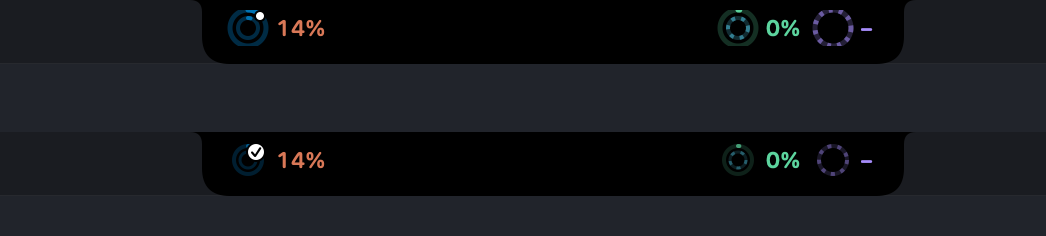
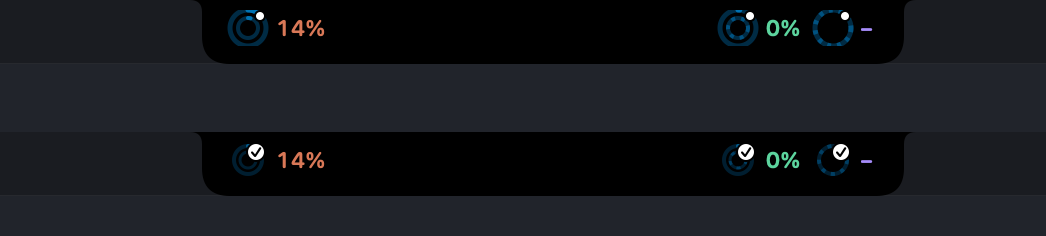
Notchmeter 0.9.14: every ring carries its mark, and the news keeps its name
The picture of the rings' marks drew the dot and the tick on Claude Code's ring
alone; the owner, on the site's copy: "every assistant should have the
checkmark when done". DemoFixtures.everyRing puts Codex and Cursor beside it in
the same state, as their hooks send it (a permission request; a quiet turn
nudged as a possible wait; then each ending a long turn), so the picture shows
a dot, then a tick, on every ring with a hook; the same marks were checked live
on the installed app's strip. permission.png is drawn again with the card's new
header. The other pictures render the same to the pixel and are left alone.

Version 0.9.14 in the plist and the plugin, its notes, the changelog, and the
guides' "Tested on" stamps.

Claude-Session: https://claude.ai/code/session_01BmUk8Pcie3UzytbtYBUh3s

diff --git a/Sources/Notchmeter/DemoFixtures.swift b/Sources/Notchmeter/DemoFixtures.swift
@@ -60,7 +60,8 @@ enum DemoFixtures {
     /// `cowork` adds two Claude Cowork tasks to the afternoon (`coworkTasks`), for `cowork.png` and
     /// `cowork-news.png`; the README's own pictures leave them out, so they stay the pictures they were.
     @MainActor
-    static func store(now: Date = Date(), moment: Moment = .waiting, cowork: Bool = false, suite: String = suiteName) -> (store: UsageStore, prefs: Preferences) {
+    static func store(now: Date = Date(), moment: Moment = .waiting, cowork: Bool = false, everyRing: Bool = false,
+                      suite: String = suiteName) -> (store: UsageStore, prefs: Preferences) {
         // A suite nothing writes to. The registration domain lives in memory only, so the countdown style the
         // pictures rely on is neither read from nor written to the user's own preferences. Peak hours are off: the
         // window is read against the wall clock, so a render during it grew an advice line and a footer word that
@@ -75,6 +76,7 @@ enum DemoFixtures {
                                cache: ReadingCache(defaults: defaults), defaults: defaults, drainLog: nil)
         var tracker = sessions(now: now, moment: moment)
         if cowork { coworkTasks(into: &tracker, now: now) }
+        if everyRing { Self.everyRing(&tracker, now: now, finished: moment == .justFinished) }
         store.seed(readings: readings, cost: cost(now: now), nextUpdate: now.addingTimeInterval(2 * 60 + 40),
                    sessions: tracker, now: now)
         // The afternoon has the Claude Code hook installed, which is what keeps the Sessions card on the panel; the
@@ -83,6 +85,7 @@ enum DemoFixtures {
         store.hookInstalledTools = moment == .firstLaunch ? [] : [.claude]
         // The task list open on the notchmeter row, so the pictures show the checklist and not only its count.
         store.openSessionLists = moment == .firstLaunch ? [] : [SessionsCard.listKey("notchmeter", .todos)]
+        if everyRing { store.hookInstalledTools = [.claude, .codex, .cursor] }
         if moment == .everyAssistant {
             store.hookInstalledTools = Set(ToolID.allCases)
             store.openSessionLists = Set(everyAssistantPlans.map { SessionsCard.listKey(SessionTracker.key(tool: $0.tool, session: $0.session, host: nil), .todos) })
@@ -783,6 +786,28 @@ extension DemoFixtures {
 
     /// Each payload as the assistant's hook sends it, parsed by the hook's own parser; Cursor's plan as its transcript
     /// records it, replayed by the app's own follower (CursorPlans), since Cursor's hooks never report it.
+    /// Codex and Cursor beside Claude Code in the same state, for the picture of the rings' marks (signal-rings.png):
+    /// the owner, on the site's copy of it, where only Claude's ring carried the dot and the tick, "every assistant
+    /// should have the checkmark when done" (2026-10-03). Waiting, Codex has asked for a permission and Cursor, which
+    /// has no wait event, has gone quiet with nothing running and is nudged as a possible wait; finished, both have
+    /// ended a long turn. Fed as their hooks send it, in ascending time, so the marks are states the tracker reaches.
+    static func everyRing(_ tracker: inout SessionTracker, now: Date, finished: Bool) {
+        func feed(_ tool: ToolID, _ ago: TimeInterval, _ json: String) {
+            guard let message = Hook.message(from: Data(json.utf8), tool: tool, environment: [:], branch: { _ in "main" }, requestID: "demo-ring") else { return }
+            tracker.apply(message, now: now.addingTimeInterval(-ago))
+        }
+        feed(.codex, 300, #"{"hook_event_name":"UserPromptSubmit","session_id":"x-ring","cwd":"/Users/me/api-server","prompt":"Add rate limiting to the upload endpoint"}"#)
+        feed(.cursor, 200, #"{"hook_event_name":"beforeSubmitPrompt","conversation_id":"u-ring","workspace_roots":["/Users/me/web-app"],"prompt":"Fix the checkout form validation"}"#)
+        if finished {
+            feed(.codex, 15, #"{"hook_event_name":"Stop","session_id":"x-ring","cwd":"/Users/me/api-server"}"#)
+            feed(.cursor, 10, #"{"hook_event_name":"stop","conversation_id":"u-ring","status":"completed","workspace_roots":["/Users/me/web-app"]}"#)
+        } else {
+            feed(.cursor, 100, #"{"hook_event_name":"afterAgentThought","conversation_id":"u-ring","workspace_roots":["/Users/me/web-app"]}"#)
+            _ = tracker.quietNudges(now: now.addingTimeInterval(-50))
+            feed(.codex, 40, #"{"hook_event_name":"PermissionRequest","session_id":"x-ring","cwd":"/Users/me/api-server","tool_name":"Bash","tool_input":{"command":"npm test"}}"#)
+        }
+    }
+
     static func everyAssistant(_ tracker: inout SessionTracker, now: Date) {
         func feed(_ tool: ToolID, _ ago: TimeInterval, _ json: String, event: String? = nil) {
             guard let message = Hook.message(from: Data(json.utf8), tool: tool, event: event, environment: [:], branch: { _ in "main" }, requestID: "demo") else { return }

diff --git a/site/guides/index.html b/site/guides/index.html
@@ -52,27 +52,27 @@
       <a class="guide-card" href="claude-code-cost-estimate-vs-bill.html">
         <span class="q">Why your Claude Code cost estimate doesn't match your bill</span>
         <span class="what">Every rule behind the estimate, its primary sources, and the eight places it is known to differ from what Anthropic bills.</span>
-        <span class="when">24 September 2026 · Tested on Notchmeter 0.9.13</span>
+        <span class="when">24 September 2026 · Tested on Notchmeter 0.9.14</span>
       </a>
       <a class="guide-card" href="will-you-run-out-before-the-reset.html">
         <span class="q">Will you run out before the window resets?</span>
         <span class="what">Pace instead of percentage, a run-out range from your own recent hours, and what Claude's peak hours change.</span>
-        <span class="when">24 September 2026 · Tested on Notchmeter 0.9.13</span>
+        <span class="when">24 September 2026 · Tested on Notchmeter 0.9.14</span>
       </a>
       <a class="guide-card" href="which-assistant-should-get-this-task.html">
         <span class="q">Which assistant should get this task?</span>
         <span class="what">Switch models before tools, wait when the reset is close, and route by the room each plan has left.</span>
-        <span class="when">24 September 2026 · Tested on Notchmeter 0.9.13</span>
+        <span class="when">24 September 2026 · Tested on Notchmeter 0.9.14</span>
       </a>
       <a class="guide-card" href="prompt-cache-cost.html">
         <span class="q">How much is your prompt cache actually costing you?</span>
         <span class="what">What a cache miss costs against a hit, the four causes Claude Code reports, and the tier shift nobody mentions.</span>
-        <span class="when">24 September 2026 · Tested on Notchmeter 0.9.13</span>
+        <span class="when">24 September 2026 · Tested on Notchmeter 0.9.14</span>
       </a>
       <a class="guide-card" href="cursor-copilot-antigravity-limits.html">
         <span class="q">Cursor, Copilot and Antigravity limits in one place</span>
         <span class="what">Three vendors, three ideas of what a limit is: what each figure is, where it comes from, and what is never shown as zero.</span>
-        <span class="when">24 September 2026 · Tested on Notchmeter 0.9.13</span>
+        <span class="when">24 September 2026 · Tested on Notchmeter 0.9.14</span>
       </a>
     </div>
 
@@ -81,12 +81,12 @@
       <a class="guide-card" href="claude-code-notifications-not-working.html">
         <span class="q">Claude Code notifications not working?</span>
         <span class="what">Fix Claude Code's own notifications first, then what a hook adds, how to fix one that went quiet, and when not to install it.</span>
-        <span class="when">24 September 2026 · Tested on Notchmeter 0.9.13</span>
+        <span class="when">24 September 2026 · Tested on Notchmeter 0.9.14</span>
       </a>
       <a class="guide-card" href="monitor-coding-agents-without-config-writes.html">
         <span class="q">Monitoring coding agents without letting an app write to your config</span>
         <span class="what">The meters write nothing; the hook is added only on your click, after a backup. What each tier can know.</span>
-        <span class="when">24 September 2026 · Tested on Notchmeter 0.9.13</span>
+        <span class="when">24 September 2026 · Tested on Notchmeter 0.9.14</span>
       </a>
     </div>
 
@@ -95,7 +95,7 @@
       <a class="guide-card" href="macos-agent-notch-apps-compared.html">
         <span class="q">Every macOS agent-notch app compared (2026)</span>
         <span class="what">Twenty-two other apps, their licences, prices and star counts as of 3 October 2026, and where each one beats Notchmeter.</span>
-        <span class="when">24 September 2026 · Tested on Notchmeter 0.9.13</span>
+        <span class="when">24 September 2026 · Tested on Notchmeter 0.9.14</span>
       </a>
     </div>
   </div>

diff --git a/site/index.html b/site/index.html
@@ -222,7 +222,7 @@
   <div class="wrap">
     <div class="split">
       <figure class="shot">
-        <img src="img/signal-rings.png" alt="The rings a moment apart: above, Claude Code waiting for an answer, the rings blue with a white dot; below, a turn just finished, the same blue with a tick.">
+        <img src="img/signal-rings.png" alt="The rings a moment apart: above, Claude Code, Codex and Cursor each waiting on you, every ring blue with a white dot; below, each one's turn just finished, the same blue with a tick on every ring.">
       </figure>
       <div>
         <h2>It says when an assistant wants you</h2>
@@ -257,7 +257,7 @@
         <p>Codex and GitHub Copilot CLI answer permission requests the same way. Every part of it fails open: hand it back with <em>Answer in the terminal</em> or Escape, let the hold run out, switch it off in Settings, or quit Notchmeter altogether, and the terminal asks exactly as it always has. The card shows what a tool wants to do, never your prompt or the file it is editing.</p>
       </div>
       <figure class="shot">
-        <img src="img/permission.png" alt="The panel open on a permission request alone: Permission request, the Bash and notchmeter chips, the command, its excerpt, the rule Claude Code suggested, and Deny and Allow with keyboard shortcuts.">
+        <img src="img/permission.png" alt="The panel open on a permission request alone: Claude needs approval, the Bash and notchmeter chips, the command, its excerpt, the rule Claude Code suggested, and Deny and Allow with keyboard shortcuts.">
       </figure>
     </div>
     <figure class="shot">

diff --git a/Sources/Notchmeter/AssetRenderer.swift b/Sources/Notchmeter/AssetRenderer.swift
@@ -47,8 +47,12 @@ enum AssetRenderer {
             try write(stage.image(.compact, canvas: CGSize(width: 1200, height: 80), pixelScale: scale), png: directory.appendingPathComponent("compact-top.png"))
             try write(edgeNotch(store: store), png: directory.appendingPathComponent("edge-left.png"))
             try write(edgeNotchWithPanel(panel: stage.content, store: store), png: directory.appendingPathComponent("edge-right-panel.png"))
-            let (finished, finishedPrefs) = DemoFixtures.store(now: now, moment: .justFinished)
-            try write(signalRings(waiting: stage, finished: Stage(store: finished, prefs: finishedPrefs, actions: actions)),
+            // Every ring with a hook carries its mark, not only Claude's: Codex and Cursor wait and finish beside it
+            // (DemoFixtures.everyRing), each from a store of its own so the pictures above stay as they were.
+            let (waitingAll, waitingAllPrefs) = DemoFixtures.store(now: now, moment: .waiting, everyRing: true)
+            let (finished, finishedPrefs) = DemoFixtures.store(now: now, moment: .justFinished, everyRing: true)
+            try write(signalRings(waiting: Stage(store: waitingAll, prefs: waitingAllPrefs, actions: actions),
+                                  finished: Stage(store: finished, prefs: finishedPrefs, actions: actions)),
                       png: directory.appendingPathComponent("signal-rings.png"))
             try write(notchNews(now: now, actions: actions), png: review.appendingPathComponent("notch-news.png"))
             let newsLoop = try notchNewsLoop(now: now, actions: actions)

diff --git a/site/guides/macos-agent-notch-apps-compared.html b/site/guides/macos-agent-notch-apps-compared.html
@@ -47,7 +47,7 @@
       <p class="lede">At least twenty apps now put coding agents in or beside the MacBook notch, every one we could date released or updated this year, and more watch the same agents from the menu bar or a window of their own. Notchmeter is one of them, and this page is ours, so read it with that in mind. It is written to be the fair one: every app below does something better than Notchmeter does, and its entry says what.</p>
       <ul class="meta-strip">
         <li>Published <time datetime="2026-09-24">24 September 2026</time></li>
-        <li class="stamp">Tested on Notchmeter 0.9.13</li>
+        <li class="stamp">Tested on Notchmeter 0.9.14</li>
         <li>Stars and features checked 2026-10-03</li>
       </ul>
     </div>

diff --git a/site/guides/monitor-coding-agents-without-config-writes.html b/site/guides/monitor-coding-agents-without-config-writes.html
@@ -47,7 +47,7 @@
       <p class="lede">Most apps that watch coding agents do it by putting a command into the agent's settings file, and several do it on first launch without asking. That file also holds your permissions, your hooks and your status line. Here is what you can know without anything being written, what a hook adds, and exactly what is written, where, when you decide to add one.</p>
       <ul class="meta-strip">
         <li>Published <time datetime="2026-09-24">24 September 2026</time></li>
-        <li class="stamp">Tested on Notchmeter 0.9.13</li>
+        <li class="stamp">Tested on Notchmeter 0.9.14</li>
         <li>Other apps' READMEs read 2026-09-24</li>
       </ul>
     </div>

diff --git a/site/guides/claude-code-cost-estimate-vs-bill.html b/site/guides/claude-code-cost-estimate-vs-bill.html
@@ -47,7 +47,7 @@
       <p class="lede">The dollar figure in Claude Code's <code>/usage</code>, in its status line and in Notchmeter's Cost card is worked out on your Mac from token counts and a price table. It is an estimate by construction. Here is exactly how Notchmeter's is built, where it comes from, and every place it is known to part company with the bill.</p>
       <ul class="meta-strip">
         <li>Published <time datetime="2026-09-24">24 September 2026</time></li>
-        <li class="stamp">Tested on Notchmeter 0.9.13</li>
+        <li class="stamp">Tested on Notchmeter 0.9.14</li>
         <li>Sources read 2026-09-01; rates 2026-09-24</li>
       </ul>
     </div>

diff --git a/site/guides/cursor-copilot-antigravity-limits.html b/site/guides/cursor-copilot-antigravity-limits.html
@@ -47,7 +47,7 @@
       <p class="lede">Three vendors, three ideas of what a limit is. Cursor bills a cycle in dollars, GitHub counts AI credits by the month, and Google meters Antigravity and Gemini CLI in quota windows with no money in them at all. Here is how each is read, what each figure actually is, and how they end up side by side.</p>
       <ul class="meta-strip">
         <li>Published <time datetime="2026-09-24">24 September 2026</time></li>
-        <li class="stamp">Tested on Notchmeter 0.9.13</li>
+        <li class="stamp">Tested on Notchmeter 0.9.14</li>
         <li>Vendor terms read 2026-09-20 and 2026-09-24</li>
       </ul>
     </div>

diff --git a/site/guides/prompt-cache-cost.html b/site/guides/prompt-cache-cost.html
@@ -47,7 +47,7 @@
       <p class="lede">Prompt caching is why a long Claude Code session costs a fraction of what its token count suggests. It is also where some of the day's most expensive turns hide: a cache miss writes back what the cache already held, at a write rate, instead of reading it at a tenth of the input price or less.</p>
       <ul class="meta-strip">
         <li>Published <time datetime="2026-09-24">24 September 2026</time></li>
-        <li class="stamp">Tested on Notchmeter 0.9.13</li>
+        <li class="stamp">Tested on Notchmeter 0.9.14</li>
         <li>Rates from Anthropic's pricing page, 2026-09-24</li>
       </ul>
     </div>

diff --git a/site/guides/claude-code-notifications-not-working.html b/site/guides/claude-code-notifications-not-working.html
@@ -47,7 +47,7 @@
       <p class="lede">When Claude Code stops for a permission and nothing tells you, the fix is usually in your terminal, not in another app. Start there. If you then want more than a banner, this is what a hook adds, how to fix one that has gone quiet, and when you are better off without it.</p>
       <ul class="meta-strip">
         <li>Published <time datetime="2026-09-24">24 September 2026</time></li>
-        <li class="stamp">Tested on Notchmeter 0.9.13</li>
+        <li class="stamp">Tested on Notchmeter 0.9.14</li>
         <li>Claude Code docs read 2026-09-24</li>
       </ul>
     </div>

diff --git a/site/guides/which-assistant-should-get-this-task.html b/site/guides/which-assistant-should-get-this-task.html
@@ -47,7 +47,7 @@
       <p class="lede">If you pay for more than one coding assistant, the question before a long job is rarely "which is best at this". It is "which of them can afford it right now". That second question has an answer you can compute, and this is how Notchmeter computes it.</p>
       <ul class="meta-strip">
         <li>Published <time datetime="2026-09-24">24 September 2026</time></li>
-        <li class="stamp">Tested on Notchmeter 0.9.13</li>
+        <li class="stamp">Tested on Notchmeter 0.9.14</li>
         <li>Rules from Advisor.swift</li>
       </ul>
     </div>

diff --git a/site/guides/will-you-run-out-before-the-reset.html b/site/guides/will-you-run-out-before-the-reset.html
@@ -47,7 +47,7 @@
       <p class="lede">A percentage says how much is gone. It does not say whether the rest will last. Here are the three ways Notchmeter answers that question, from the weakest evidence to the strongest, and the things that can still make the answer wrong.</p>
       <ul class="meta-strip">
         <li>Published <time datetime="2026-09-24">24 September 2026</time></li>
-        <li class="stamp">Tested on Notchmeter 0.9.13</li>
+        <li class="stamp">Tested on Notchmeter 0.9.14</li>
         <li>Rules from docs/accuracy.md</li>
       </ul>
     </div>
